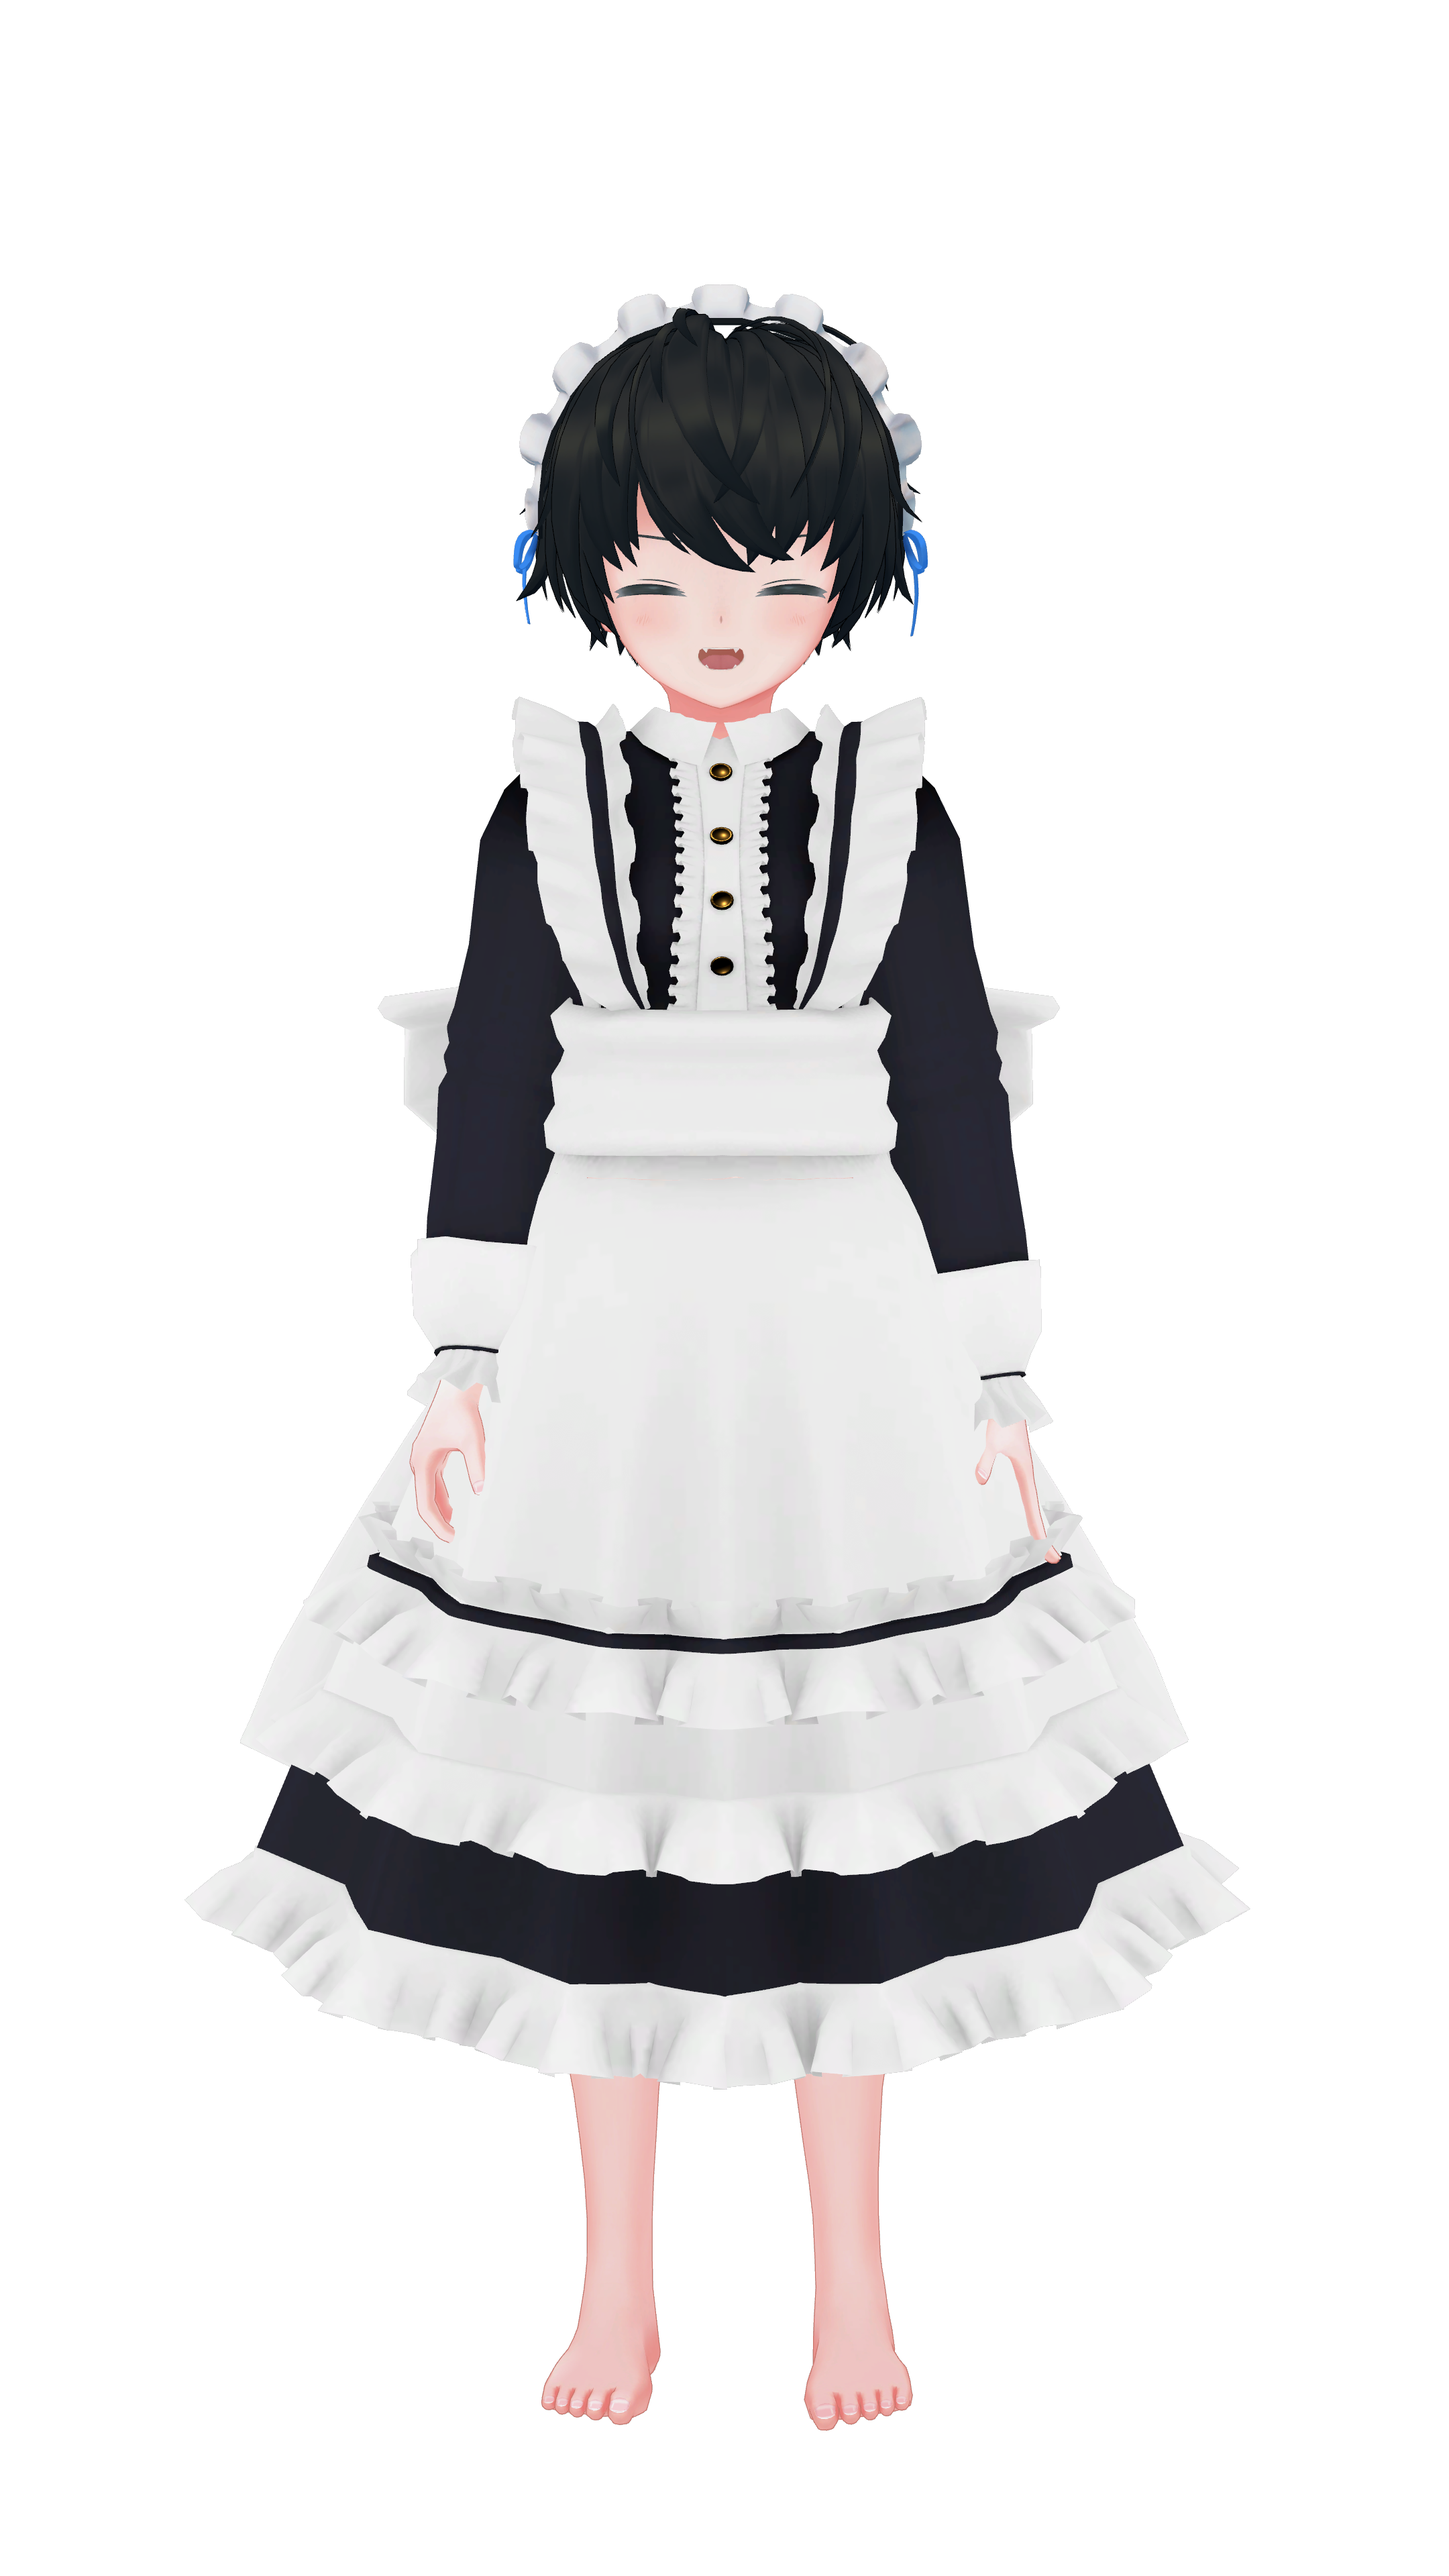
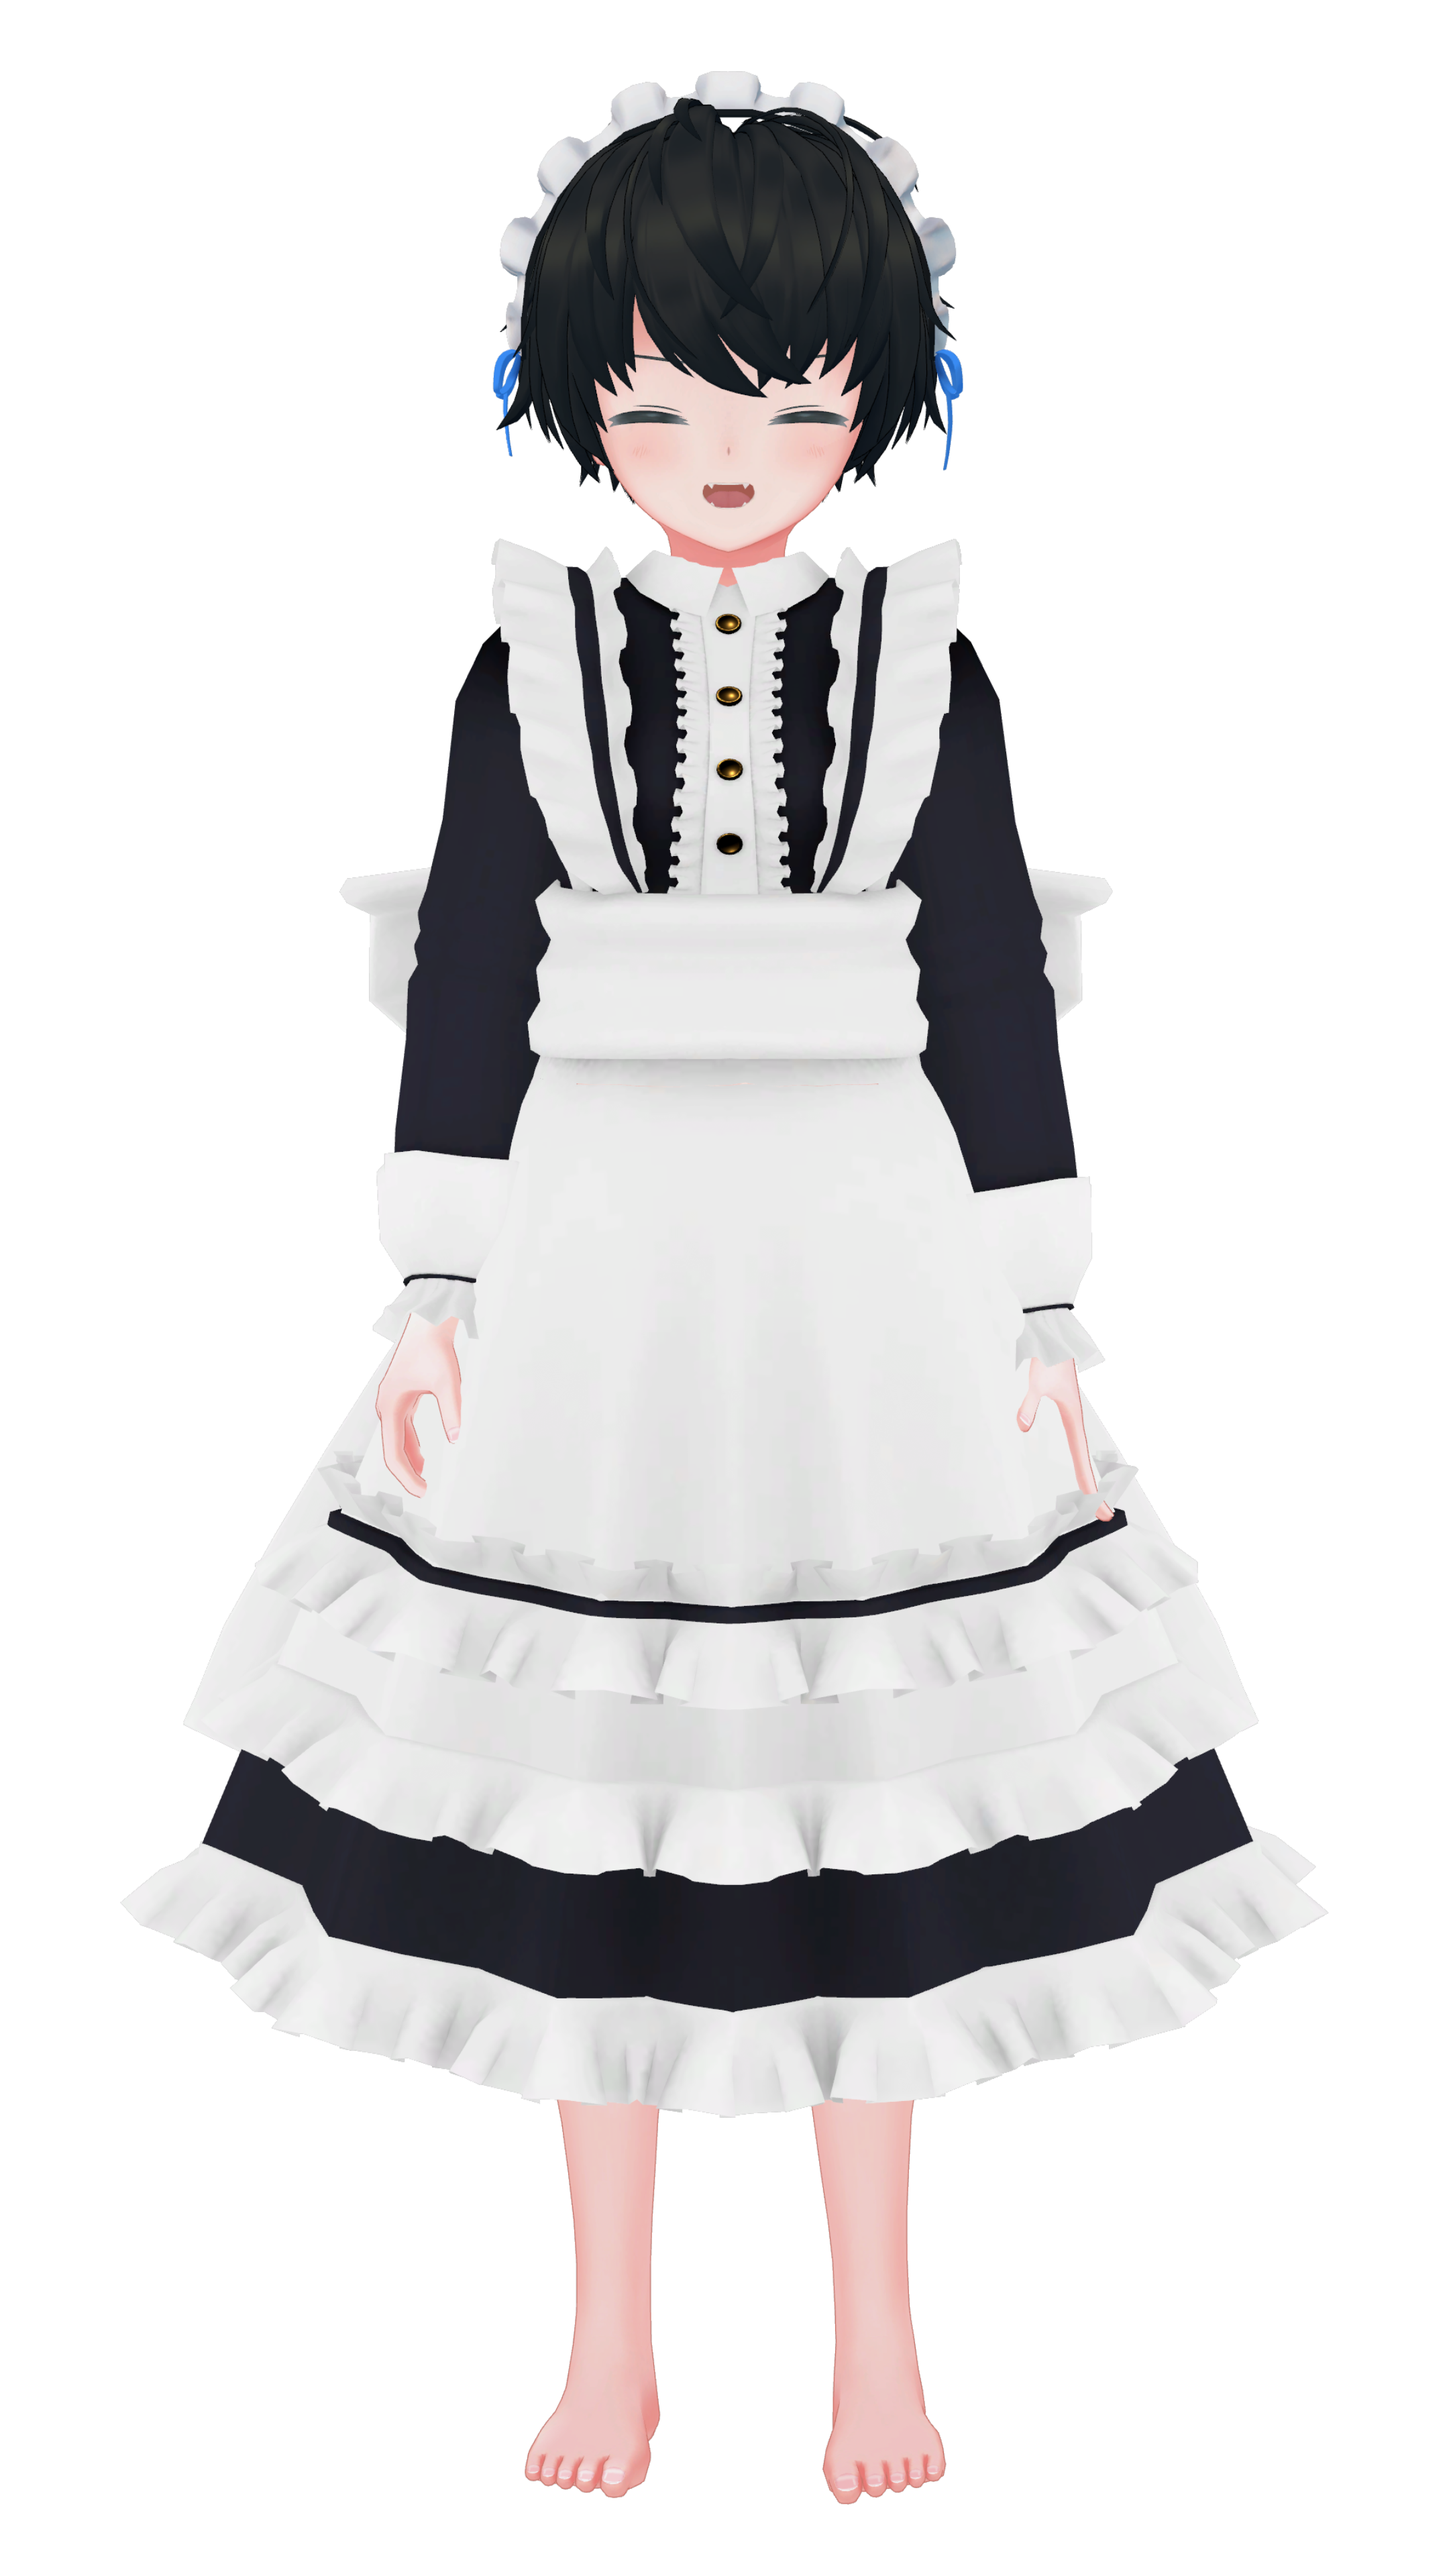
Feat: アバターの表示スタイルを整理し、レスポンシブに対応
アバターのステージと画像のインラインスタイルをCSSクラスに移行し、レスポンシブ対応を追加しました。
- `.hero-avatar-stage` および `.hero-avatar-image` クラスを導入
- メディアクエリにより画面サイズに応じた表示調整を適用
- `avatar-maid.png` アセットを更新

diff --git a/src/sections/Hero.tsx b/src/sections/Hero.tsx
@@ -153,8 +153,8 @@ export function Hero({ tweaks, mouse, persona }: { tweaks: Tweaks; mouse: MouseS
         </div>
 
         {/* Avatar column */}
-        <div style={{
-          position:'relative', height:'min(980px, 116vh)', marginTop:-120, marginBottom:-150,
+        <div className="hero-avatar-stage" style={{
+          position:'relative',
           transform:`translate(${parallaxX}px, ${parallaxY}px)`,
           transition:'transform 0.6s cubic-bezier(0.2, 0.8, 0.2, 1)',
         }}>
@@ -185,19 +185,13 @@ export function Hero({ tweaks, mouse, persona }: { tweaks: Tweaks; mouse: MouseS
               transform: isWork ? 'rotateY(180deg)' : 'rotateY(0deg)',
               transition:'transform 0.9s cubic-bezier(0.65, 0, 0.35, 1)',
             }}>
-              <img src={avatarWeb} alt="KOKOA avatar A"
+              <img className="hero-avatar-image" src={avatarWeb} alt="KOKOA avatar A"
                 style={{
-                  position:'absolute', bottom:'-10%', right:'-7%', height:'124%', width:'124%',
-                  objectFit:'contain', objectPosition:'bottom right',
-                  filter:'drop-shadow(0 20px 60px rgba(0,0,0,0.5))',
                   backfaceVisibility:'hidden',
                   WebkitBackfaceVisibility:'hidden',
                 }}/>
-              <img src={avatarMaid} alt="KOKOA work outfit maid avatar"
+              <img className="hero-avatar-image" src={avatarMaid} alt="KOKOA work outfit maid avatar"
                 style={{
-                  position:'absolute', bottom:'-10%', right:'-7%', height:'124%', width:'124%',
-                  objectFit:'contain', objectPosition:'bottom right',
-                  filter:'drop-shadow(0 20px 60px rgba(0,0,0,0.5))',
                   backfaceVisibility:'hidden',
                   WebkitBackfaceVisibility:'hidden',
                   transform:'rotateY(180deg)',

diff --git a/src/styles.css b/src/styles.css
@@ -46,6 +46,21 @@
     92%  { transform: rotateY(180deg); }
     100% { transform: rotateY(360deg); }
   }
+  .hero-avatar-stage {
+    height: clamp(520px, calc(100vh - 190px), 720px);
+    margin-top: -16px;
+    margin-bottom: -48px;
+  }
+  .hero-avatar-image {
+    position: absolute;
+    bottom: 0;
+    right: 0;
+    height: 100%;
+    width: 100%;
+    object-fit: contain;
+    object-position: bottom center;
+    filter: drop-shadow(0 20px 60px rgba(0,0,0,0.5));
+  }
   @media (max-width: 900px) {
     section > div[style*="grid-template-columns: 1.15fr 1fr"],
     section > div[style*="grid-template-columns: 1.2fr 1fr"] {
@@ -59,10 +74,20 @@
       grid-column: 2 / 3;
     }
     nav > div[style*="gap: 28px"] { display: none !important; }
+    .hero-avatar-stage {
+      height: min(560px, 68vh);
+      min-height: 380px;
+      margin-top: 20px;
+      margin-bottom: 0;
+    }
   }
   @media (max-width: 560px) {
     .nav-actions { gap: 0 !important; }
     .persona-switch button { padding: 6px 9px !important; }
+    .hero-avatar-stage {
+      height: min(470px, 62vh);
+      min-height: 320px;
+    }
   }
   @media (max-width: 640px) {
     section { padding-left: 5vw !important; padding-right: 5vw !important; }
